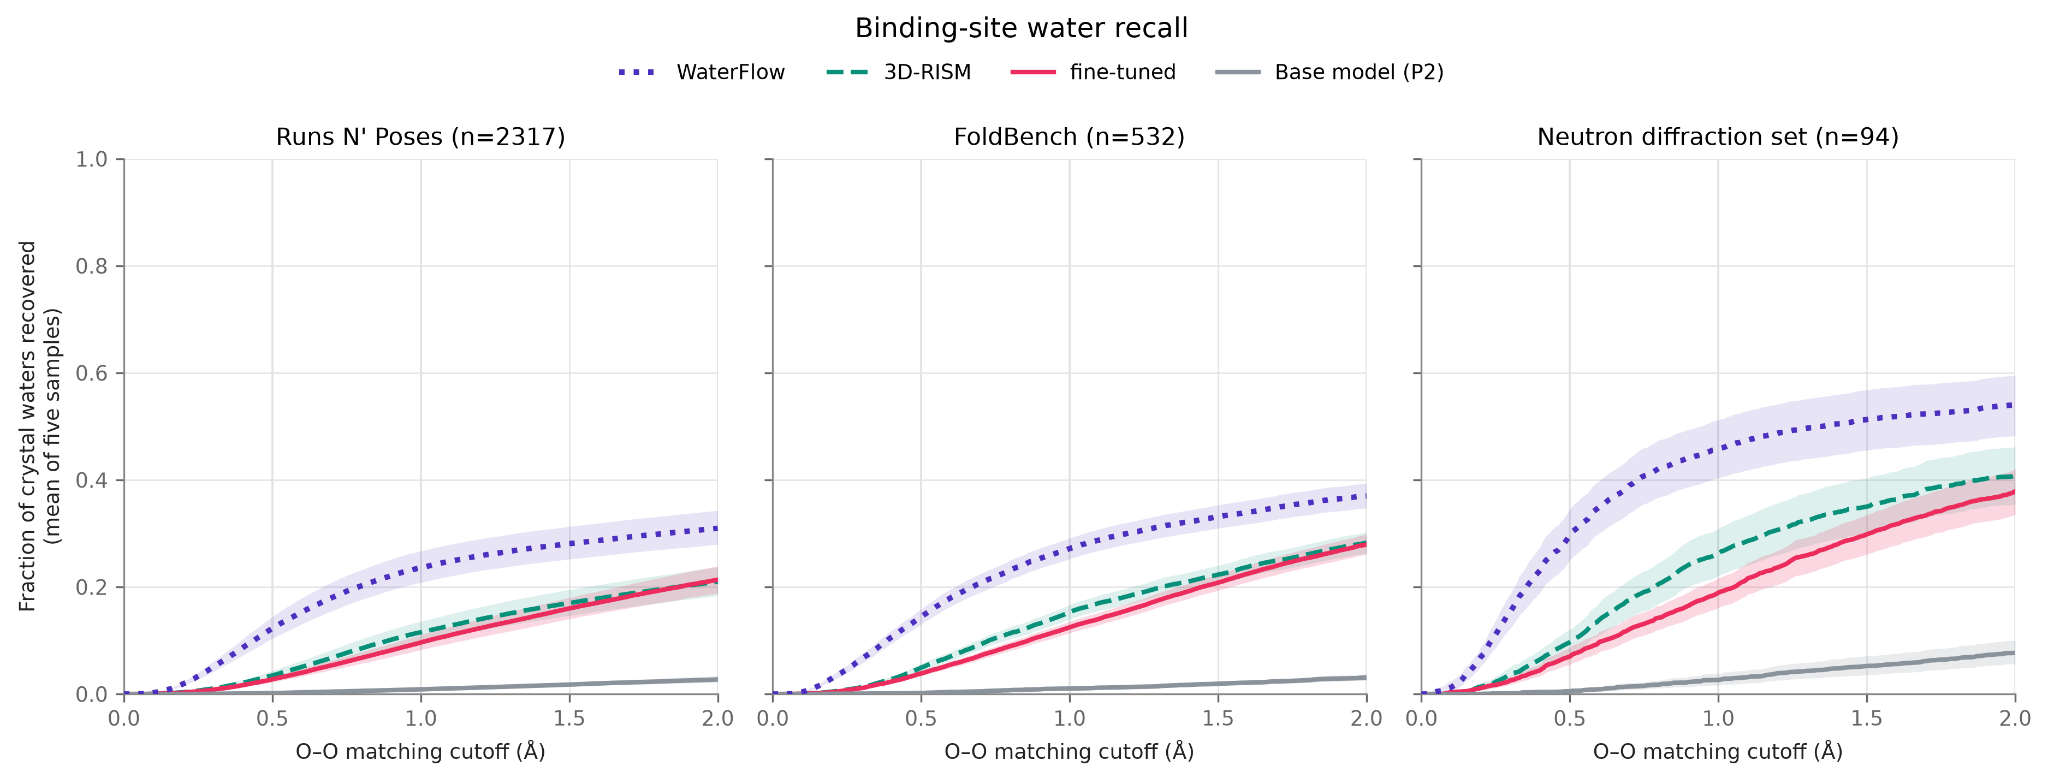
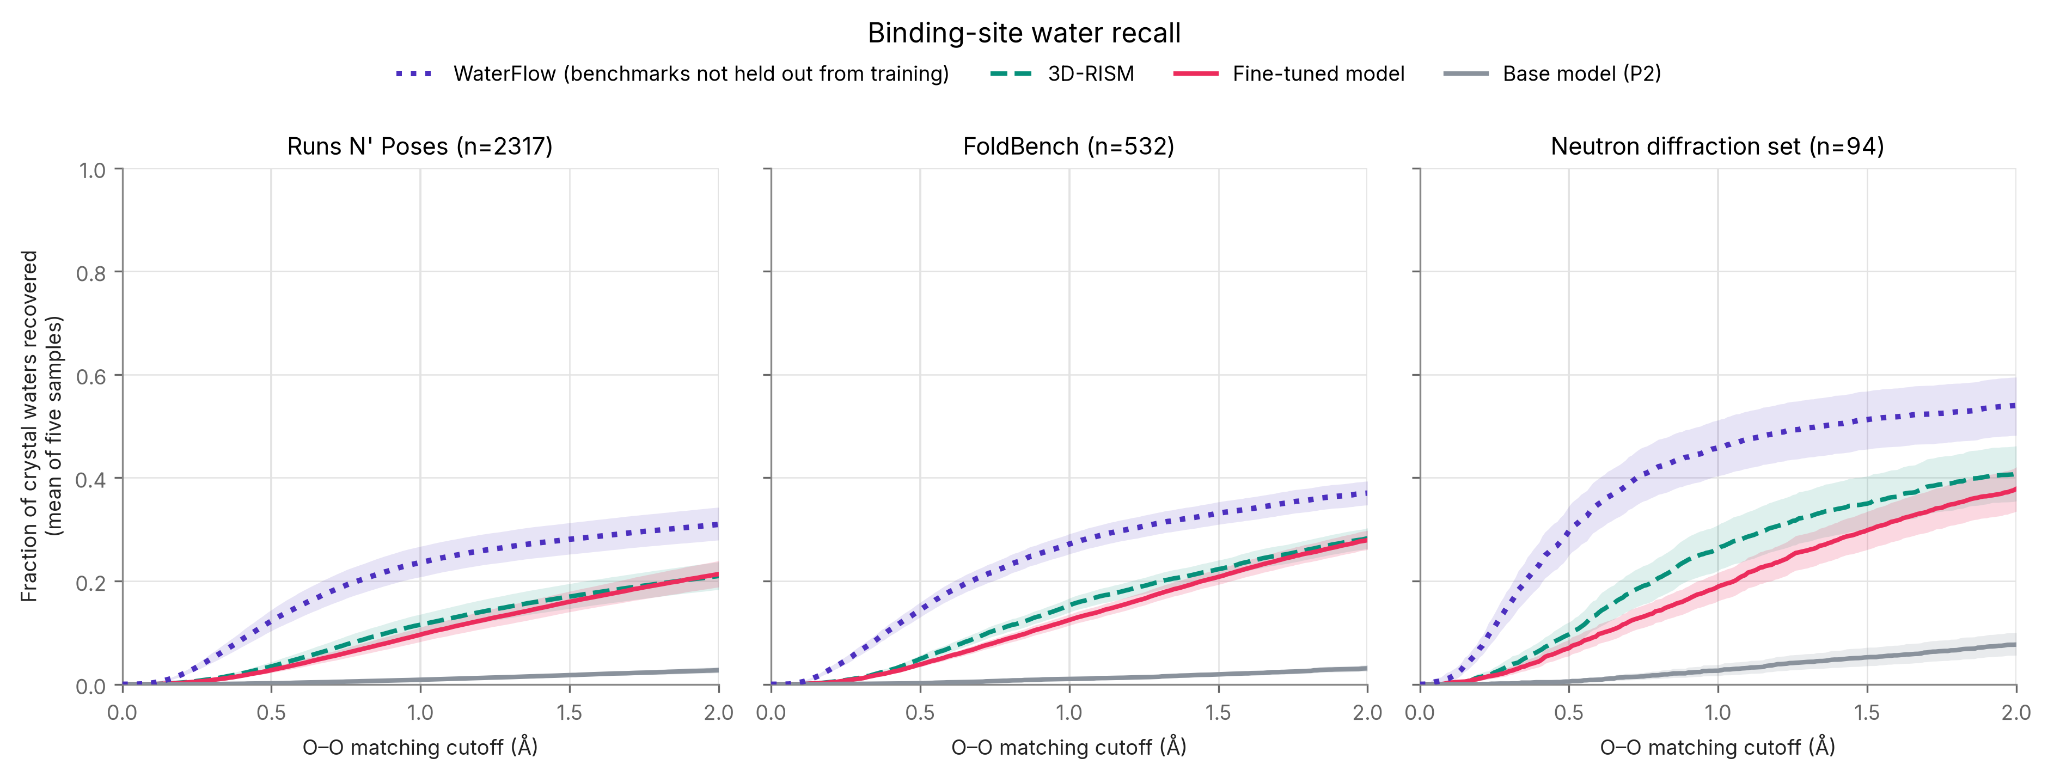
more revisions

diff --git a/blog/2026-11/openfold-p2water.html b/blog/2026-11/openfold-p2water.html
@@ -119,7 +119,7 @@
 
           <p>Co-folding models have emerged as powerful tools for early-stage drug discovery. These models take in protein sequence and ligand as inputs to predict the 3D coordinates of the resulting structure complex. Since AlphaFold3&rsquo;s debut in 2024, over 20 co-folding models have been released, including the fully open-source <a href="https://github.com/aqlaboratory/openfold-3" target="_blank" rel="noopener noreferrer">OpenFold3</a>. These models work across multiple modalities: proteins, ligands, DNA/RNA, and ions, making them useful for both small-molecule and biologics discovery.</p>
 
-          <p>One modality absent in all currently open-source models is water. Our bodies are made up of 60% water, by mass, and water provides the environment in which our cells operate and proteins fold and interact. Water molecules can be identified in structural biology experiments, occupying key protein pockets, mediating both drug&ndash;protein and protein&ndash;protein interfaces. In drug design, understanding when to preserve, displace, or reorganize these key waters is often crucial to improving potency and selectivity of drugs, and is at times associated with unexpected &ldquo;activity cliffs&rdquo; when key structural waters are displaced. Modeling this modality is thus a central challenge, a key capability missing in current co-folding models and their many downstream tasks, including affinity prediction.</p>
+          <p>One modality absent in all currently open-source models is water. Our bodies are made up of 60% water, by mass, and water provides the environment in which our cells operate and proteins fold and interact. Water molecules can be identified in structural biology experiments, occupying key protein pockets, mediating both drug&ndash;protein and protein&ndash;protein interfaces. In drug design, understanding when to preserve, displace, or reorganize these key waters is often crucial to improving potency and selectivity of drugs, and is at times associated with unexpected &ldquo;activity cliffs&rdquo; when key structural waters are displaced. Modeling this modality is thus a central challenge, a key capability missing in current co-folding models and their many downstream tasks, including affinity prediction via computer simulations. Exchange with bulk solvent can be slow in buried pockets, which makes some hydration sites difficult to sample. Co-folding with water can propose buried water positions that are often crucial for the accuracy of affinity calculations.</p>
 
           <p>We present an early release of our OpenFold3-P2-ft-water model, based on <a href="https://portal.openfold.io/reports/of3p2_technical_report.pdf" target="_blank" rel="noopener noreferrer">OpenFold3-P2</a>, which provides end-to-end co-folding of protein&ndash;small-molecule complexes with inclusion of waters. We first demonstrated water co-folding at the May 2026 <a href="https://www.cofold.org/" target="_blank" rel="noopener noreferrer">Co-Folding Summit</a>. This preview makes the capability available for researchers to try on their complexes. We&rsquo;re working towards a full release (data, methods, training code, and checkpoint) in 2027, and we want to engage the community in evaluating this capability. For protein&ndash;protein and protein&ndash;ligand co-folding a range of benchmarks and metrics exist; evaluation of water co-folding is a new challenge to the community. We present the outline of our methodology, data processing, and approach to evaluation, and provide an interactive server allowing the community to evaluate the capabilities of our models.</p>
 
@@ -154,16 +154,16 @@
 
           <ul>
             <li><strong><a href="https://openreview.net/forum?id=kIe6nCvXzA" target="_blank" rel="noopener noreferrer">BoltzW</a></strong>, an ML model produced by fine-tuning the Boltz-2 co-folding model on highly ordered waters, is closed source but reports an average recall of less than 0.3 on a dataset of 88 structures chosen because their model can fold them correctly.</li>
-            <li><strong><a href="https://www.biorxiv.org/content/10.64898/2026.08.26.747373v1" target="_blank" rel="noopener noreferrer">WaterFlow</a></strong> is an ML model trained to predict ordered water molecules, but it requires a protein structure as input. It is therefore not a straightforward comparison to our co-folding model, which must predict the protein&ndash;ligand structure in addition to the positions of water molecules. We nonetheless include WaterFlow for the sake of comparison.</li>
-            <li><strong><a href="https://arxiv.org/abs/2604.26140" target="_blank" rel="noopener noreferrer">3D-RISM</a></strong> is an established statistical-mechanical theory of solvation that calculates solvent distributions around a solute, which can then be processed to identify discrete water sites. Although it also requires an input structure, we chose 3D-RISM as a reference method for predicting solvent distributions around molecular structures. Because the number of waters placed by 3D-RISM cannot be controlled explicitly, we limit our evaluation of 3D-RISM&rsquo;s output to the N highest-occupancy water sites (as calculated by 3D-RISM) within the binding site (defined as within 5&nbsp;&Aring; of the ligand), where N is the number of waters in the crystal structure&rsquo;s binding site.</li>
+            <li><strong><a href="https://www.biorxiv.org/content/10.64898/2026.08.26.747373v1" target="_blank" rel="noopener noreferrer">WaterFlow</a></strong> is an ML model trained to predict ordered water molecules, but it requires a protein structure as input. It is therefore not a straightforward comparison to our co-folding model, which must predict the protein&ndash;ligand structure in addition to the positions of water molecules. We nonetheless include WaterFlow for the sake of comparison. The number of waters placed by WaterFlow cannot be controlled explicitly, so we limit our evaluation of WaterFlow&rsquo;s output to the N highest-occupancy water sites within the binding site (defined as within 5&nbsp;&Aring; of the ligand), where N is the number of waters in the crystal structure&rsquo;s binding site.</li>
+            <li><strong><a href="https://arxiv.org/abs/2604.26140" target="_blank" rel="noopener noreferrer">3D-RISM</a></strong> is an established statistical-mechanical theory of solvation that calculates solvent distributions around a solute, which can then be processed to identify discrete water sites. Although it also requires an input structure, we chose 3D-RISM as a reference method for predicting solvent distributions around molecular structures. As with WaterFlow, our assessment of binding-site waters from 3D-RISM was limited to the N highest-occupancy water sites.</li>
           </ul>
 
-          <p>Because no benchmarks for holo structure water placement yet exist, we repurpose two popular co-folding benchmarks: Runs N&rsquo; Poses and FoldBench&rsquo;s protein&ndash;ligand dataset. From these existing datasets, we exclude all structures with zero binding-site waters. We also introduce a neutron diffraction dataset of 94 structures curated from the PDB, whose water placements are methodologically very trustworthy. Although the neutron diffraction dataset structures were not held out from fine-tuning, they are the strongest ground truth available. The neutron diffraction experiments can more accurately measure water density, and we report them as a measure of how well the model fits trustworthy labels, not as evidence of generalization, which rests on the two held-out sets.</p>
+          <p>Because no benchmarks for holo structure water placement yet exist, we repurpose two popular co-folding benchmarks: Runs N&rsquo; Poses and FoldBench&rsquo;s protein&ndash;ligand dataset. From these existing datasets, we exclude all structures with zero binding-site waters (223 and 26 excluded structures, respectively). We also introduce a neutron diffraction dataset of 94 structures curated from the PDB, whose water placements are methodologically very trustworthy. Although the neutron diffraction dataset structures were not held out from fine-tuning, they are the strongest ground truth available. The neutron diffraction experiments can more accurately measure water density, and we report them as a measure of how well the model fits trustworthy labels, not as evidence of generalization, which rests on the two held-out sets.</p>
 
           <h2 id="results">Results</h2>
 
           <figure class="article__figure">
-            <img src="../../assets/blog/2026-11/openfold-p2water/of3-water-fig1-recall.png" width="2048" height="780" loading="lazy" decoding="async" alt="Binding-site water recall as a function of O&ndash;O matching cutoff from 0 to 2 &Aring; on Runs N' Poses (n=2317), FoldBench (n=532) and the neutron diffraction set (n=94). WaterFlow recovers the most crystal waters, 3D-RISM and the fine-tuned model follow closely together, and the base model stays near zero.">
+            <img src="../../assets/blog/2026-11/openfold-p2water/of3-water-fig1-recall.png" width="2048" height="776" loading="lazy" decoding="async" alt="Binding-site water recall as a function of O&ndash;O matching cutoff from 0 to 2 &Aring; on Runs N' Poses (n=2317), FoldBench (n=532) and the neutron diffraction set (n=94). WaterFlow (whose training data was not held out from these benchmarks) recovers the most crystal waters, 3D-RISM and the fine-tuned model follow closely together, and the base model stays near zero.">
             <figcaption>Figure 1. Benchmarking water placement.</figcaption>
           </figure>
 
@@ -175,10 +175,10 @@
 
           <p>On FoldBench, the fine-tuned model nearly matches 3D-RISM. Within 1&nbsp;&Aring;, 3D-RISM recovers 15% of crystal waters and the model 12%, a small but statistically significant difference (p &lt; 0.001). The gap closes at looser cutoffs: within 2&nbsp;&Aring; the two are indistinguishable (both 28%). We interpret this pattern to indicate that the model puts its waters in roughly the right places as often as 3D-RISM does, but 3D-RISM places them more precisely. The neutron diffraction set shows the same pattern: 3D-RISM is ahead within 1&nbsp;&Aring; (26% vs 19%).</p>
 
-          <p>We also compared against WaterFlow, a generative model trained specifically to place waters around a given structure. We gave it the same inputs as 3D-RISM: the fine-tuned model&rsquo;s predicted structure with its waters removed, keeping only its N most confident placements in the binding site. WaterFlow recovers the most crystal waters of the three methods on every benchmark: within 1&nbsp;&Aring;, 24% on Runs N&rsquo; Poses, 27% on FoldBench and 46% on the neutron diffraction set, roughly twice the fine-tuned model&rsquo;s recall. Because WaterFlow and 3D-RISM worked from the same predicted structures, the gap shows that the fine-tuned model has room for improvement.</p>
+          <p>We also compared against WaterFlow, a generative model trained specifically to place waters around a given structure. We gave it the same inputs as 3D-RISM: the fine-tuned model&rsquo;s predicted structure with its waters removed, keeping only its N most confident placements in the binding site. WaterFlow recovers the most crystal waters of the three methods on every benchmark: within 1&nbsp;&Aring;, 24% on Runs N&rsquo; Poses, 27% on FoldBench and 46% on the neutron diffraction set, roughly twice the fine-tuned model&rsquo;s recall. However, WaterFlow was trained on structures up to 2026-04-22, so heavy train&ndash;test leakage is expected. Because WaterFlow and 3D-RISM worked from our fine-tuned model&rsquo;s predicted structures, we interpret the gap in recall to mean that our fine-tuned model has room for improvement.</p>
 
           <figure class="article__figure">
-            <img src="../../assets/blog/2026-11/openfold-p2water/of3-water-fig2-pose-lddt.png" width="2048" height="811" loading="lazy" decoding="async" alt="Bar charts comparing the base model (P2) with the fine-tuned model. Ligand success rate: 57% vs 43% on Runs N' Poses, 43% vs 37% on FoldBench, 78% vs 75% on the neutron diffraction set. Protein lDDT: 0.923 vs 0.906, 0.930 vs 0.926, and 0.955 vs 0.950.">
+            <img src="../../assets/blog/2026-11/openfold-p2water/of3-water-fig2-pose-lddt.png" width="2048" height="818" loading="lazy" decoding="async" alt="Bar charts comparing the base model (P2) with the fine-tuned model. Ligand success rate: 57% vs 43% on Runs N' Poses, 43% vs 37% on FoldBench, 78% vs 75% on the neutron diffraction set. Protein lDDT: 0.923 vs 0.906, 0.930 vs 0.926, and 0.955 vs 0.950.">
             <figcaption>Figure 2. Ligand pose and protein fold benchmarks.</figcaption>
           </figure>
 
@@ -210,7 +210,7 @@
           
           <h2 id="acknowledgements">Acknowledgements</h2>
 
-          <p>Community collaboration has become increasingly impactful in advancing the state of drug discovery methods. This release could not have happened without the collaborative spirit of the consortium. We want to thank our keystone members, the AlQuraishi Lab at Columbia, as well as the Kurtzman Lab, and Greg Warren. Industry collaborators from the consortium have joined this project and made it possible: AMD Research and Apheris. If you would like to participate in collaborations like this, please reach out and become a part of this group of 40+ biotechs and pharma companies working to advance the ML frontier in drug discovery. OpenFold is a project of the Open Molecular Software Foundation (OMSF), a 501(c)3 non-profit.</p>
+          <p>Community collaboration has become increasingly impactful in advancing the state of drug discovery methods. This release could not have happened without the collaborative spirit of the consortium. We want to thank our keystone members, the AlQuraishi Lab at Columbia, Steve Ramsey of the Kurtzman Lab, and Greg Warren. Industry collaborators from the consortium have joined this project and made it possible: AMD Research and Apheris. If you would like to participate in collaborations like this, please reach out and become a part of this group of 40+ biotechs and pharma companies working to advance the ML frontier in drug discovery. OpenFold is a project of the Open Molecular Software Foundation (OMSF), a 501(c)3 non-profit.</p>
 
         </div>
         </div>
